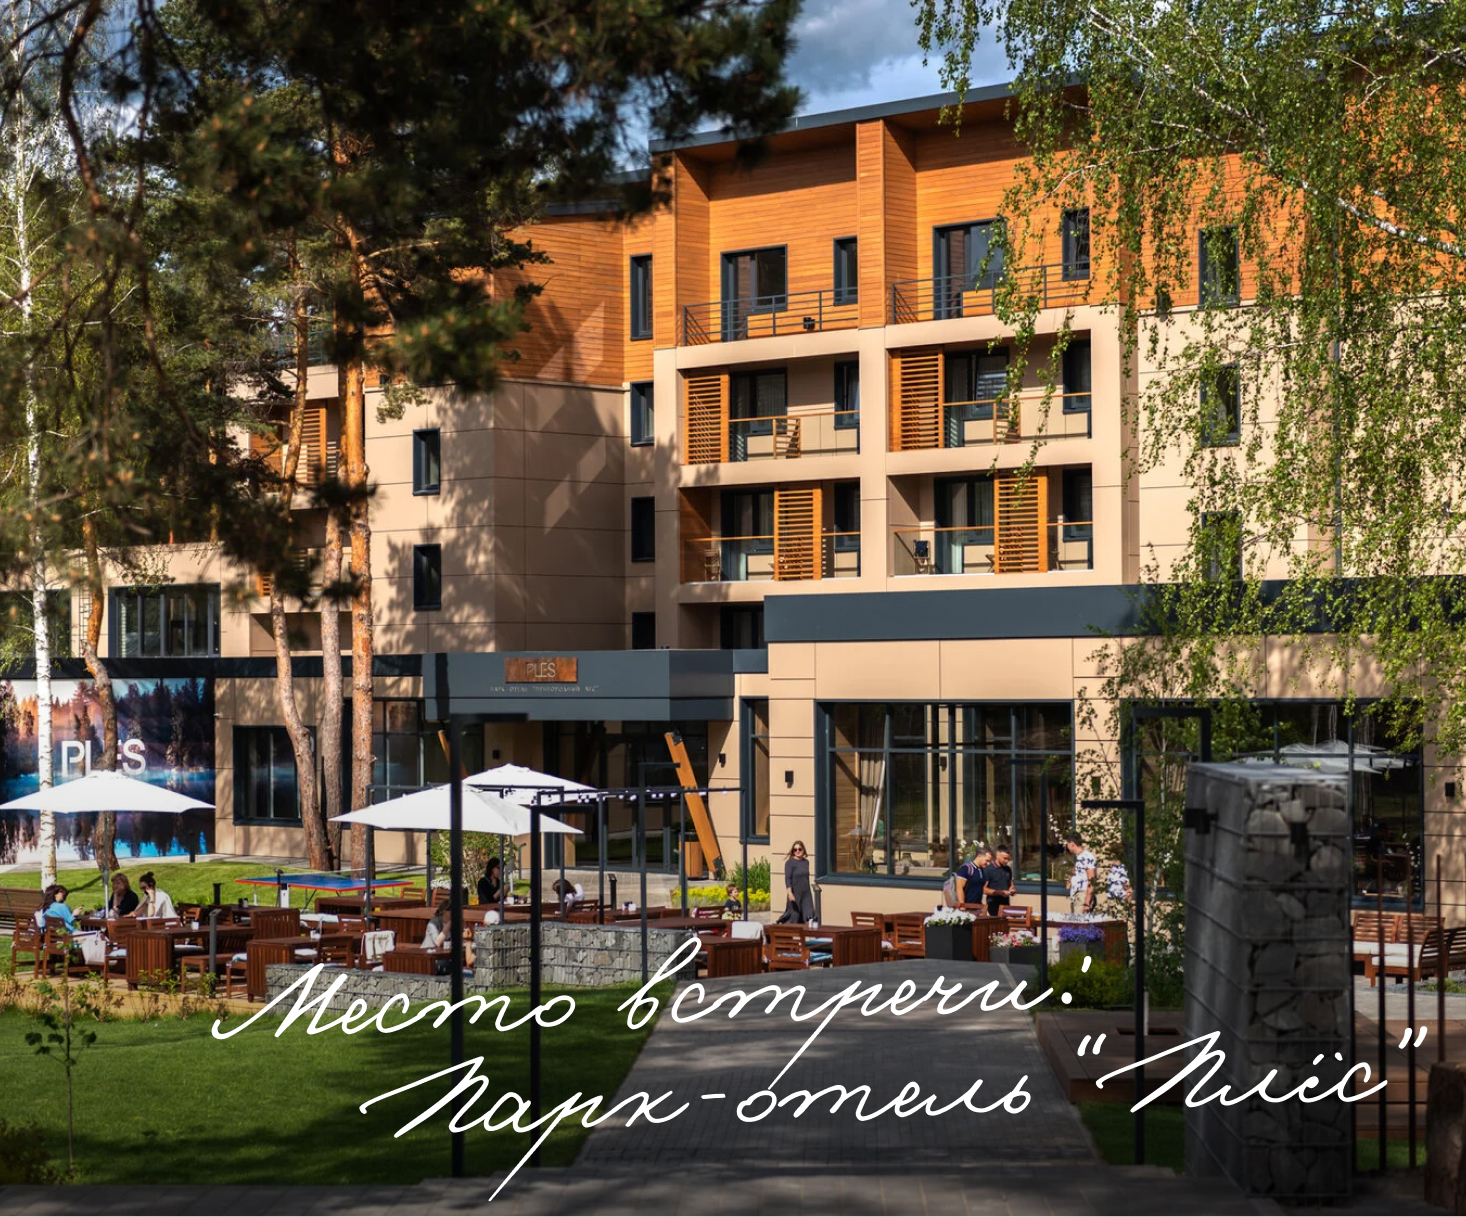
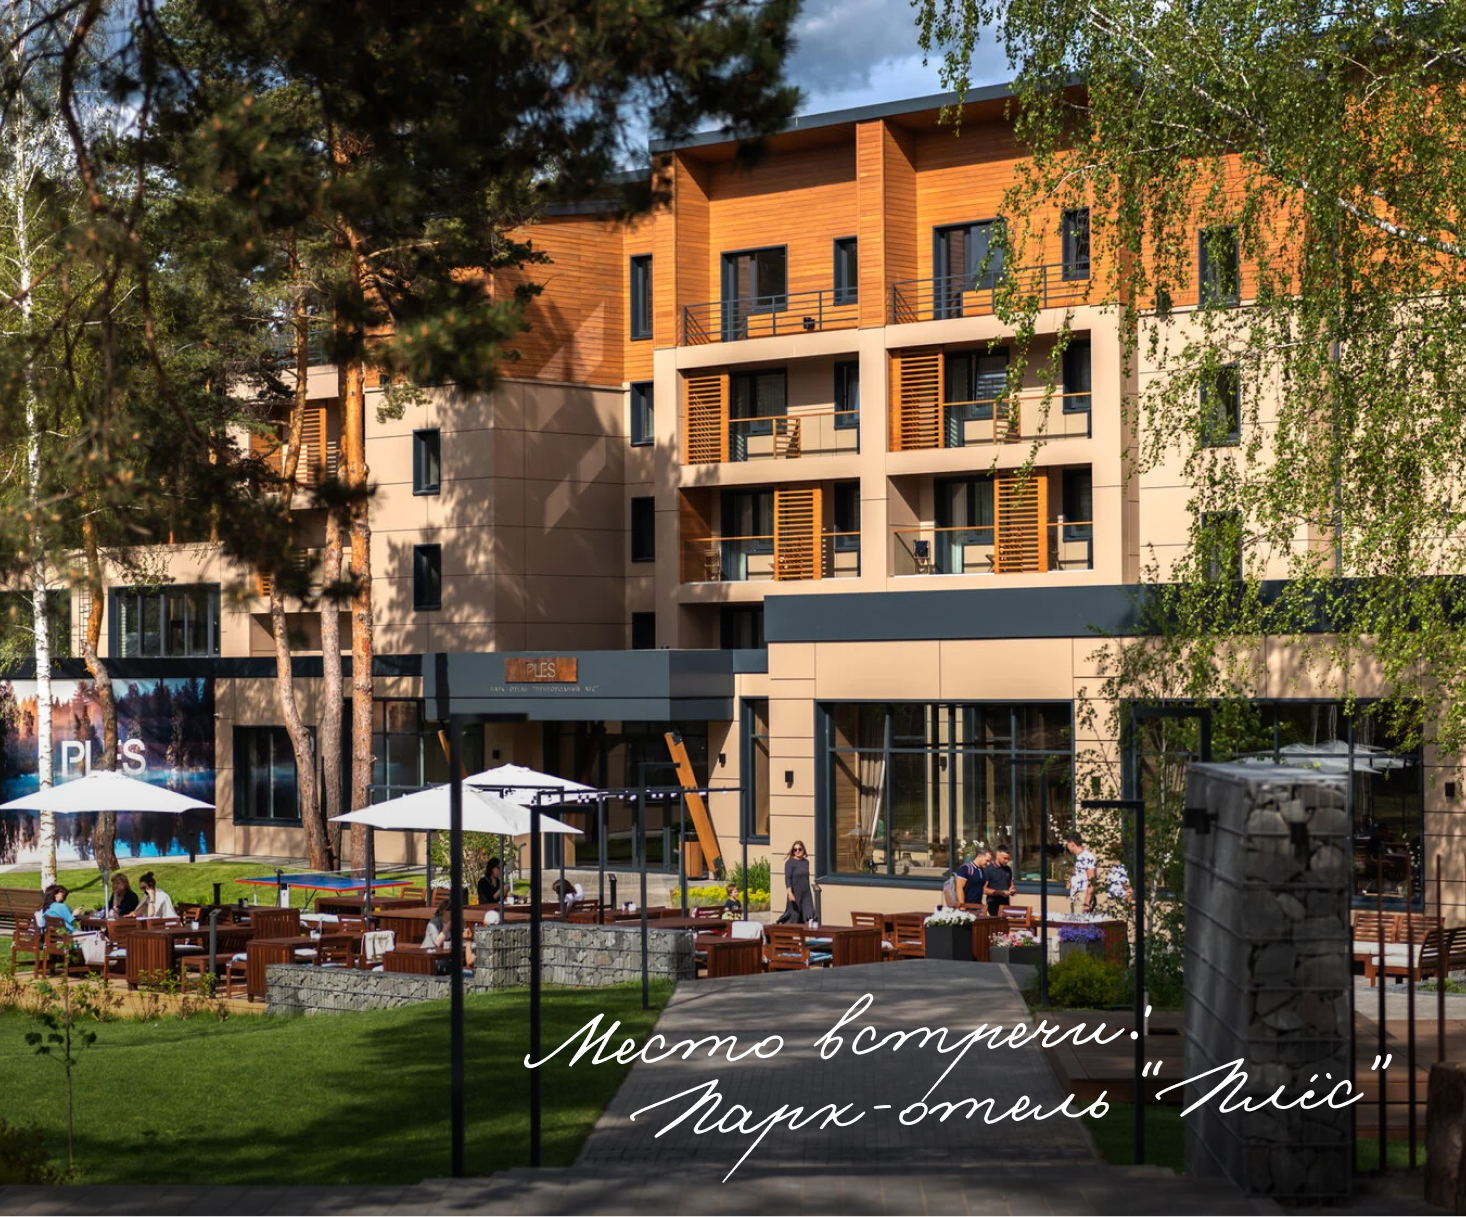
fix layout

Changed region(s): [[0.1842, 0.7806, 0.9516, 0.968], [0.9516, 0.8431, 0.9823, 0.8743]]

diff --git a/style.css b/style.css
@@ -34,7 +34,7 @@ a, a:active {
 .arrow_btn {
     margin-top: 30px;
     display: flex;
-    justify-content: right;
+    justify-content: flex-end;
 }
 
 #sound-on {
@@ -221,25 +221,46 @@ a, a:active {
 
 .location {
     display: flex;
+    flex-direction: column;
+    gap: 40px;
     padding: 40px 0;
+    height: auto !important;
 }
 
-.location > img {
+.location_imgs {
+    display: flex;
+    justify-content: center;
     position: relative;
-    left: -20px;
+}
+
+.location_img-1 {
+    transform: translateX(-20%) rotate(-4deg);
     max-height: 80vh;
     max-width: 60%;
-    transform: rotate(-4deg);
+    overflow: hidden;
+}
+
+.location_img-2 {
+    position: absolute;
+    right: 50%;
+    transform: translate(100%, 20%) rotate(4deg);
+    max-height: 80vh;
+    max-width: 40%;
+    overflow: hidden;
+}
+
+.location_imgs img {
+    max-width: 100%;
+    max-height: 100%;
+    border: 8px solid white;
 }
 
 .location_content {
     display: flex;
-    flex-direction: column;
-    align-items: center;
     gap: 80px;
     margin: 60px auto 0;
-    font-size: 28px;
-    width: 400px;
+    font-size: 24px;
+    width: 60%;
 }
 
 .location_content_text {
@@ -281,7 +302,6 @@ a, a:active {
 .timer {
     position: relative;
     width: 100%;
-    height: 100vh;
     display: flex;
     flex-direction: column;
     gap: 56px;
@@ -289,12 +309,26 @@ a, a:active {
     align-self: center;
     justify-content: center;
     text-align: center;
-    background-image: url('germakar/assets/media/timer_photo.JPG');
-    background-size: cover;
-    background-position: center;
-    background-attachment: fixed;
     color: white;
     font-size: 20px;
+    padding: 60px 0;
+}
+
+.timer_bg {
+    position: absolute;
+    z-index: -1;
+    top: 0;
+    bottom: 0;
+    left: 0;
+    right: 0;
+    height: 100%;
+    width: 100%;
+}
+
+.timer_bg {
+    max-height: 100%;
+    max-width: 100%;
+    object-fit: cover;
 }
 
 .timer_days, .timer_label, .timer_time {
@@ -348,6 +382,11 @@ a, a:active {
 @media (max-width: 600px) {
 .arrow_btn {
     margin-top: 20px;
+    width: 100%;
+}
+
+.arrow_btn img {
+    max-width: 60%;
 }
 .container {
     height:auto;
@@ -401,26 +440,44 @@ a, a:active {
 }
 
 .welcome_text_signature {
-    font-size: 36px;
+    font-size: 30px;
 }
 
 .welcome_text_signature img {
-    width: 24px;
+    width: 20px;
 }
 
 .location {
+    margin-top: 120px;
     flex-direction: column;
 }
 
-.location_btn {
-    align-self: center;
+.location_imgs {
+    flex-direction: column;
+}
+
+.location_img-1 {
+    max-width: unset;
+}
+
+.location_img-2 {
+    right: -20px;
+    left:80px;
+    transform: translate(0, -55%) rotate(4deg);
+    max-width: unset;
+}
+
+.location_imgs img {
+    border-width: 4px;
 }
 
 .location_content {
+    flex-direction: column;
     padding: 0 20px;
     margin-top: 36px;
     font-size: 18px;
     gap: 40px;
+    width: auto;
 }
 
 .location_content_item {
@@ -435,6 +492,11 @@ a, a:active {
     left: -20px;
 }
 
+.timer {
+    padding: 40px 0;
+    gap: 28px;
+}
+
 .timer_heading {
     font-size: 4rem;
     margin-bottom: -50px;
@@ -446,6 +508,6 @@ a, a:active {
 }
 
 .tg-desc {
-    margin-top: 40px;
+    margin-top: 20px;
 }
 }

diff --git a/index.html b/index.html
@@ -94,48 +94,44 @@
                 </div>
             </div>
         </div>
-            <img src="assets/media/programm.JPG">
-        
-        
+        <img src="assets/media/programm.JPG">
     </section>
     <section class="location container">
-        <img src="assets/media/location.jpg">
+        <div class="location_imgs">
+        <div class="location_img-1">
+            <img src="assets/media/location.jpg">
+        </div>
+        <div class="location_img-2">
+            <img src="assets/media/location-2.jpeg">
+        </div>
+        </div>
         <div class="location_content">
             <div class="location_content_item">
                 <div>
                     <p>Тамбов, ул. Малиновского, 39</p>
-                    <p>Парк-отель "Плёс"</p>
-                    
+                    <p>Парк-отель «Ples»</p>
                 </div>
-            
                 <a href="https://yandex.ru/maps/-/CDV-7BZJ" target="_blank" >
                     <div class="arrow_btn">
                         <img src="assets/media/btn_map.svg" alt="Открыть в картах">
                     </div>
                 </a>
-            
-                
             </button>
             </div>
             <div class="location_content_item">
-
-            
-            <div class="location_content_text">
-                По всем вопросам можете писать нашему организатору Анне
-            </div>
+                <div class="location_content_text">
+                    По всем вопросам можете писать нашему организатору Анне
+                </div>
                 <a href="https://wa.clck.bar/79202318280" target="_blank">
                     <div class="arrow_btn">
                         <img src="assets/media/btn_write.svg" alt="Написать">
                     </div>
                 </a>
             </div>
-                
         </div>
     </section>
-    <section class="questions">
-        
-    </section>
     <section class="timer">
+            <img src="assets/media/timer_photo.jpg" class="timer_bg">
         <div class="timer_heading">
             До свадьбы 
         </div>
